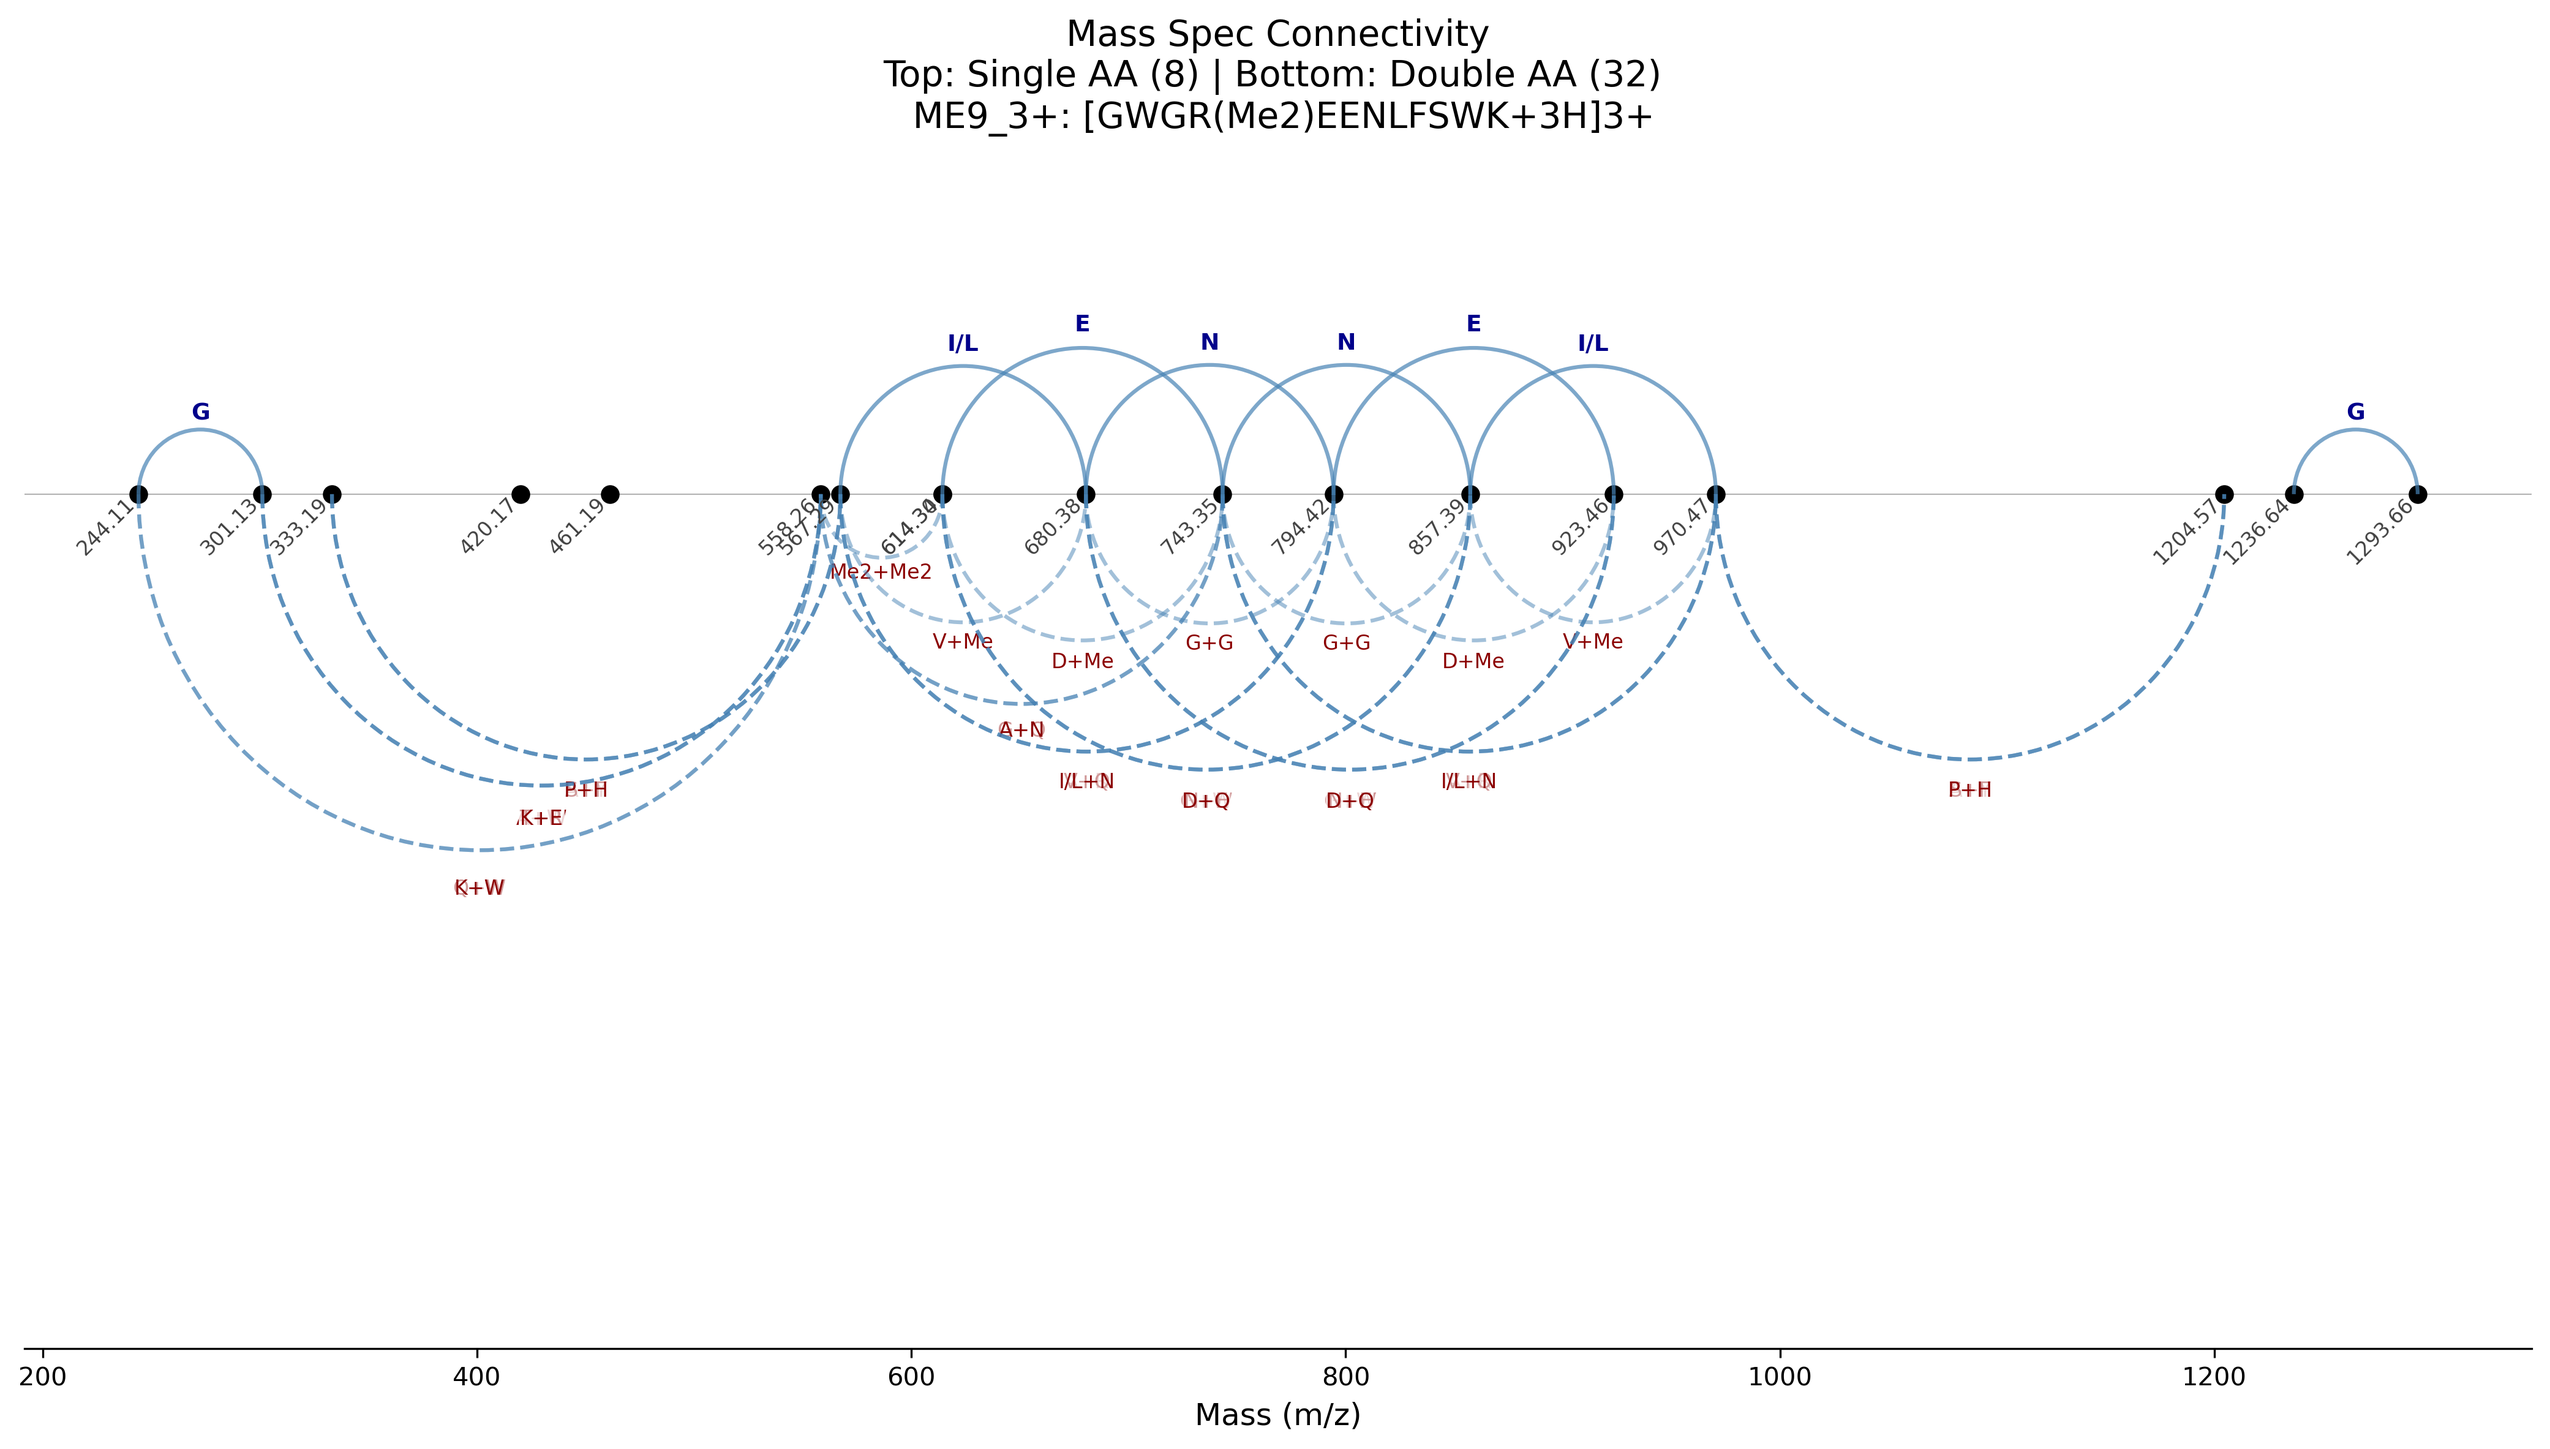
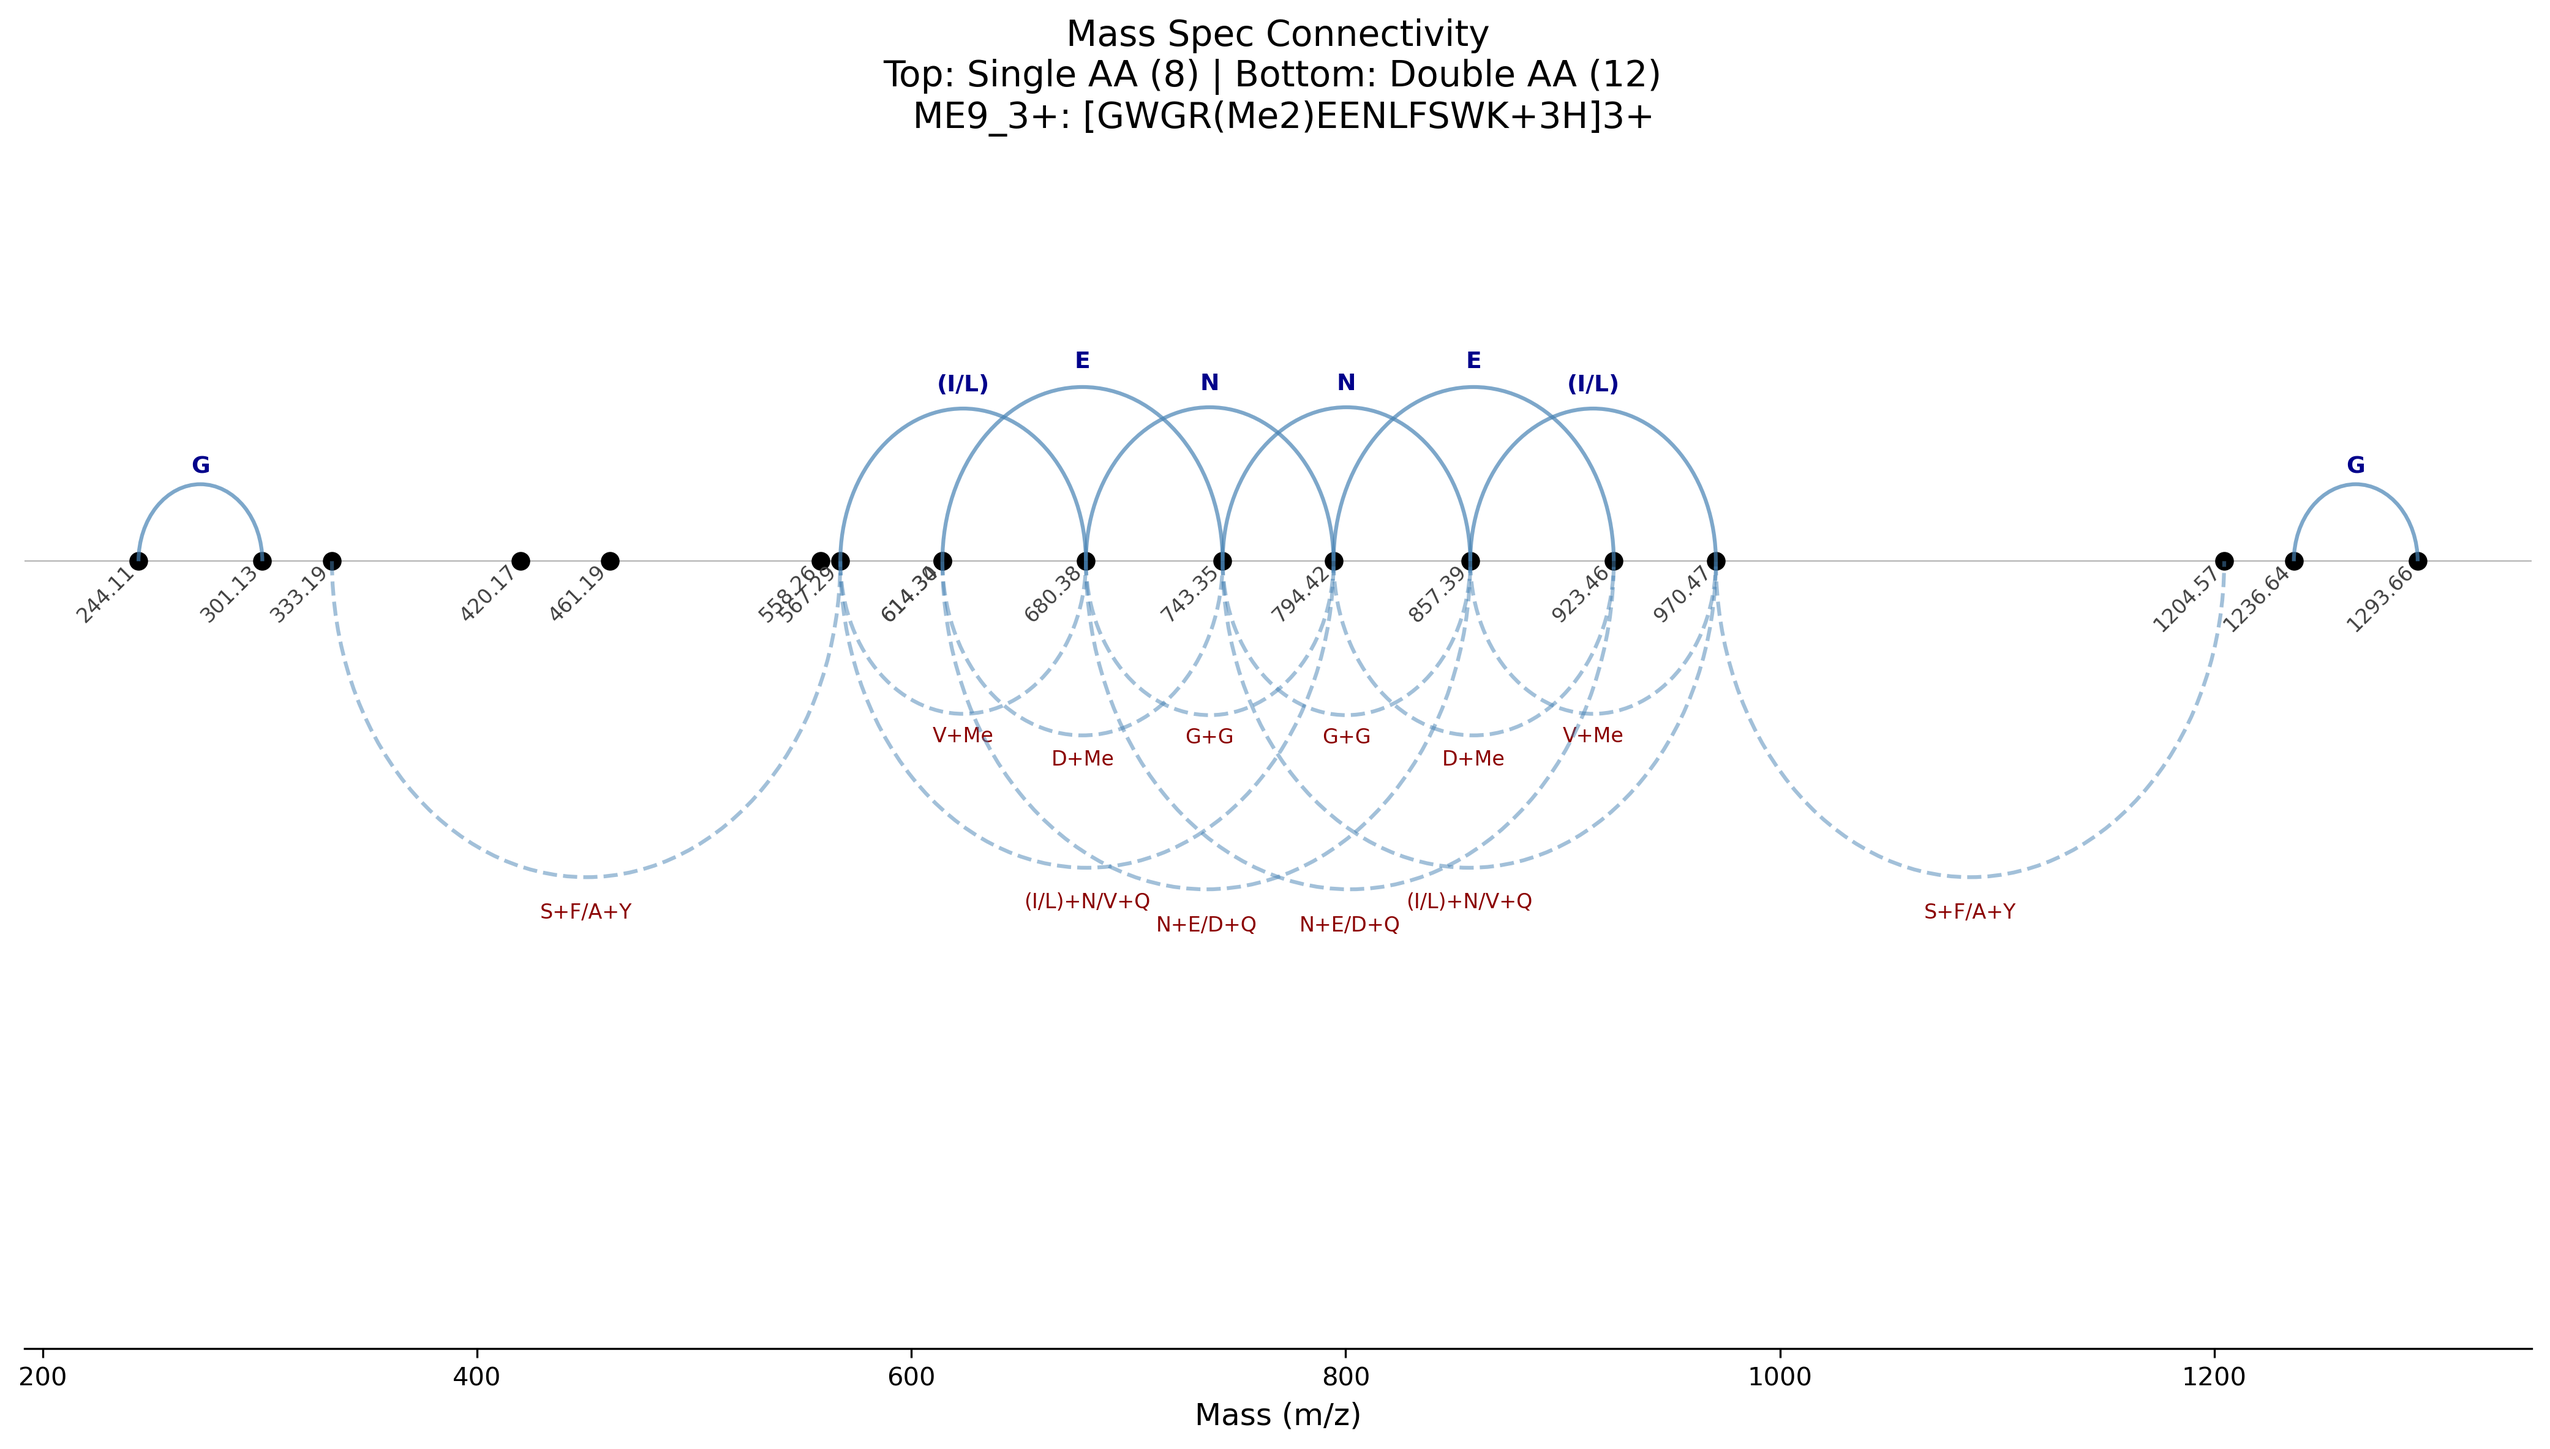
before triple count

diff --git a/vis_connect/connected_graph.py b/vis_connect/connected_graph.py
@@ -83,7 +83,7 @@ def merge_close_values(sorted_array, threshold, method="first"):
 
 AA_MASSES = {
     'G': 57.021464, 'A': 71.037114, 'S': 87.032028, 'P': 97.052764,
-    'V': 99.068414, 'T': 101.047679, 'C': 103.009185, 'I/L': 113.084064,
+    'V': 99.068414, 'T': 101.047679, 'C': 103.009185, '(I/L)': 113.084064,
     'N': 114.042927, 'D': 115.026943, 'Q': 128.058578,
     'K': 128.094963, 'E': 129.042593, 'M': 131.040485, 'H': 137.058912,
     'F': 147.068414, 'R': 156.101111, 'Y': 163.063329, 'W': 186.079313,
@@ -94,6 +94,19 @@ for aa1, aa2 in combinations_with_replacement(AA_MASSES.keys(), 2):
     mass_sum = AA_MASSES[aa1] + AA_MASSES[aa2]
     # Store with a combined label, e.g., "A+G"
     DOUBLE_AA_MASSES[f"{aa1}+{aa2}"] = mass_sum
+    
+def build_triple_aa_masses(AA_MASSES: dict) -> dict:
+    """
+    Return a dict like {"A+G+S": mass_sum, ...} for all 3-AA combos (with replacement).
+    """
+    triple = {}
+    # sort keys for stable, deterministic labels
+    keys = sorted(AA_MASSES.keys())
+    for aa1, aa2, aa3 in combinations_with_replacement(keys, 3):
+        label = f"{aa1}+{aa2}+{aa3}"
+        triple[label] = AA_MASSES[aa1] + AA_MASSES[aa2] + AA_MASSES[aa3]
+    return triple
+TRIPLE_AA_MASSES = build_triple_aa_masses(AA_MASSES)
 
 def cluster_mass_dict(
     name_to_mass: Dict[str, float],
@@ -159,7 +172,7 @@ def cluster_mass_dict(
     return merged_dict, inverse_map, groups
 
     
-def find_all_connections(peaks, tolerance=0.02, merge_double = False):
+def find_all_connections(peaks, tolerance=0.005, merge_double = False):
     """
     Identifies pairs of peaks separated by single AA mass OR double AA mass.
     Returns two separate lists of connections: (single_conns, double_conns)
@@ -168,7 +181,7 @@ def find_all_connections(peaks, tolerance=0.02, merge_double = False):
     single_conns = []
     double_conns = []
     if merge_double:
-        double_dict, inv_map, groups = cluster_mass_dict(DOUBLE_AA_MASSES, threshold=0.01, method="mean")
+        double_dict, inv_map, groups = cluster_mass_dict(DOUBLE_AA_MASSES, threshold=tolerance, method="mean")
     else:
         double_dict = DOUBLE_AA_MASSES
     for i in range(len(peaks)):
@@ -467,16 +480,16 @@ def build_mass_list(
 
 
 if __name__ == "__main__":
-    data = 'ME9_3+'
+    data = 'ME9_2+'
     my_peaks, sequence = build_mass_list(data)
     
     print(my_peaks)
     my_peaks = merge_close_values(my_peaks, threshold=0.001)
     print(my_peaks)
-    s_conns, d_conns = find_all_connections(my_peaks, tolerance=0.02)
+    s_conns, d_conns = find_all_connections(my_peaks, tolerance=0.0005, merge_double=True)
 
     
     # Define the sequence you want to find
-    seq_to_find = ['S', 'F', 'I/L', 'N', 'E', 'E'] 
+    seq_to_find = ['S', 'F', '(I/L)', 'N', 'E', 'E'] 
     # Call WITH the new argument
     plot_complex_arc_graph(my_peaks, s_conns, d_conns, highlight_sequence=seq_to_find, seq=sequence, show_graph=False, save_path=f'vis_connect/connected_graph/{data}.png')
